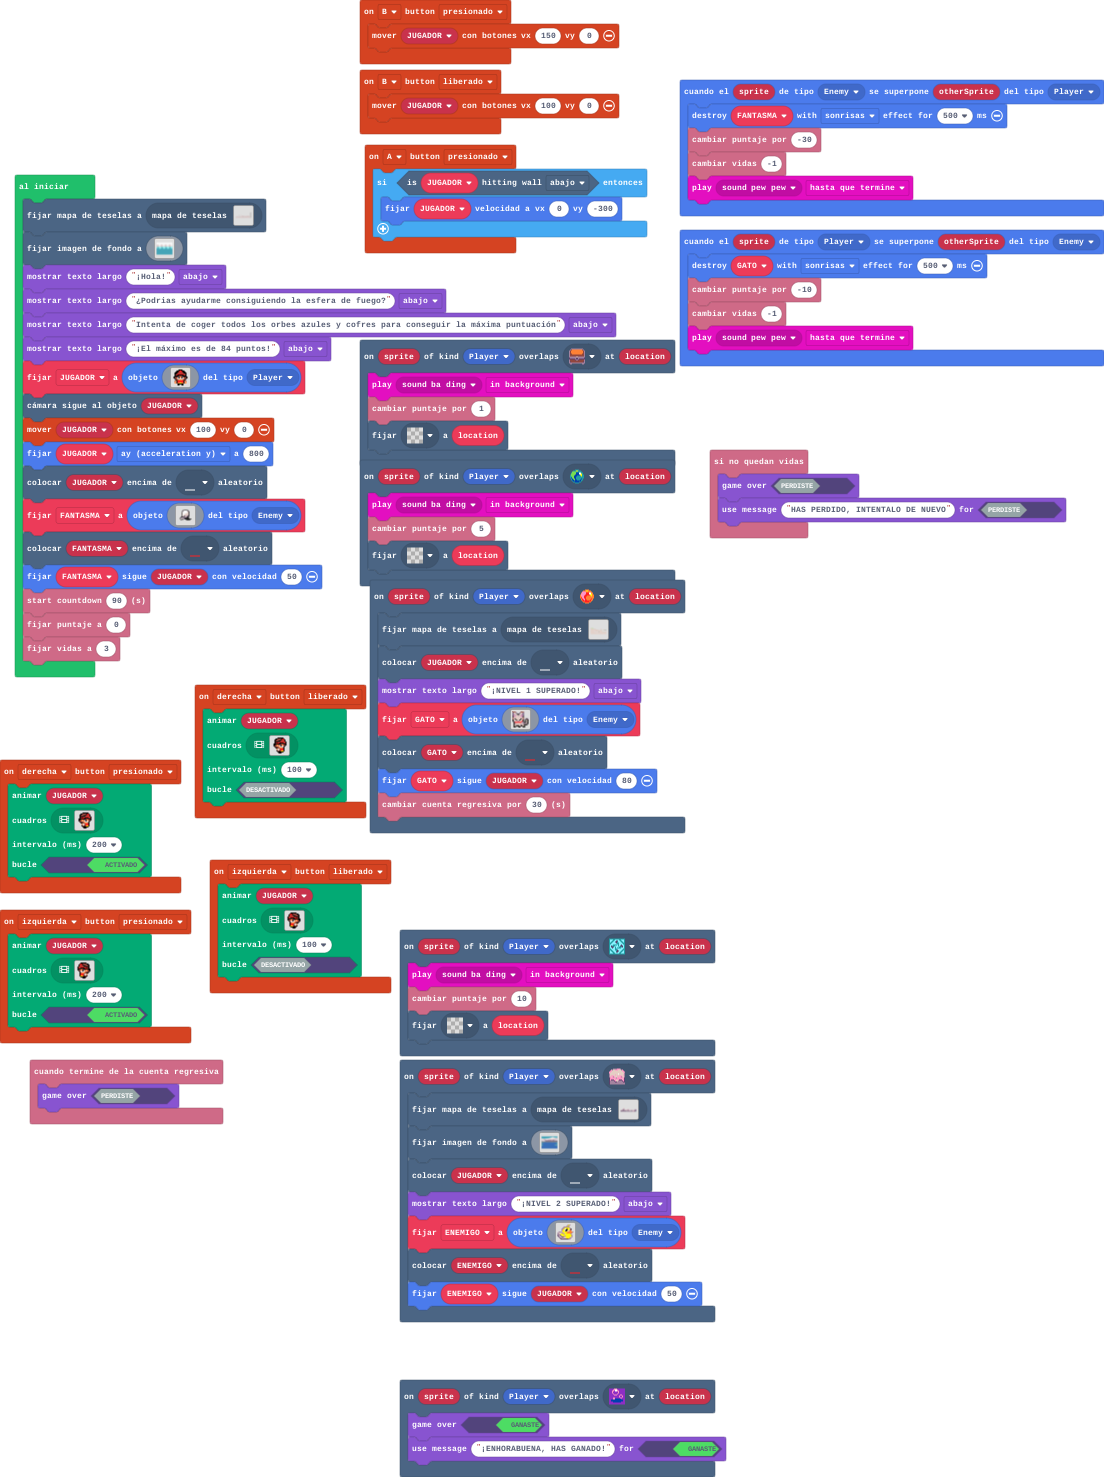
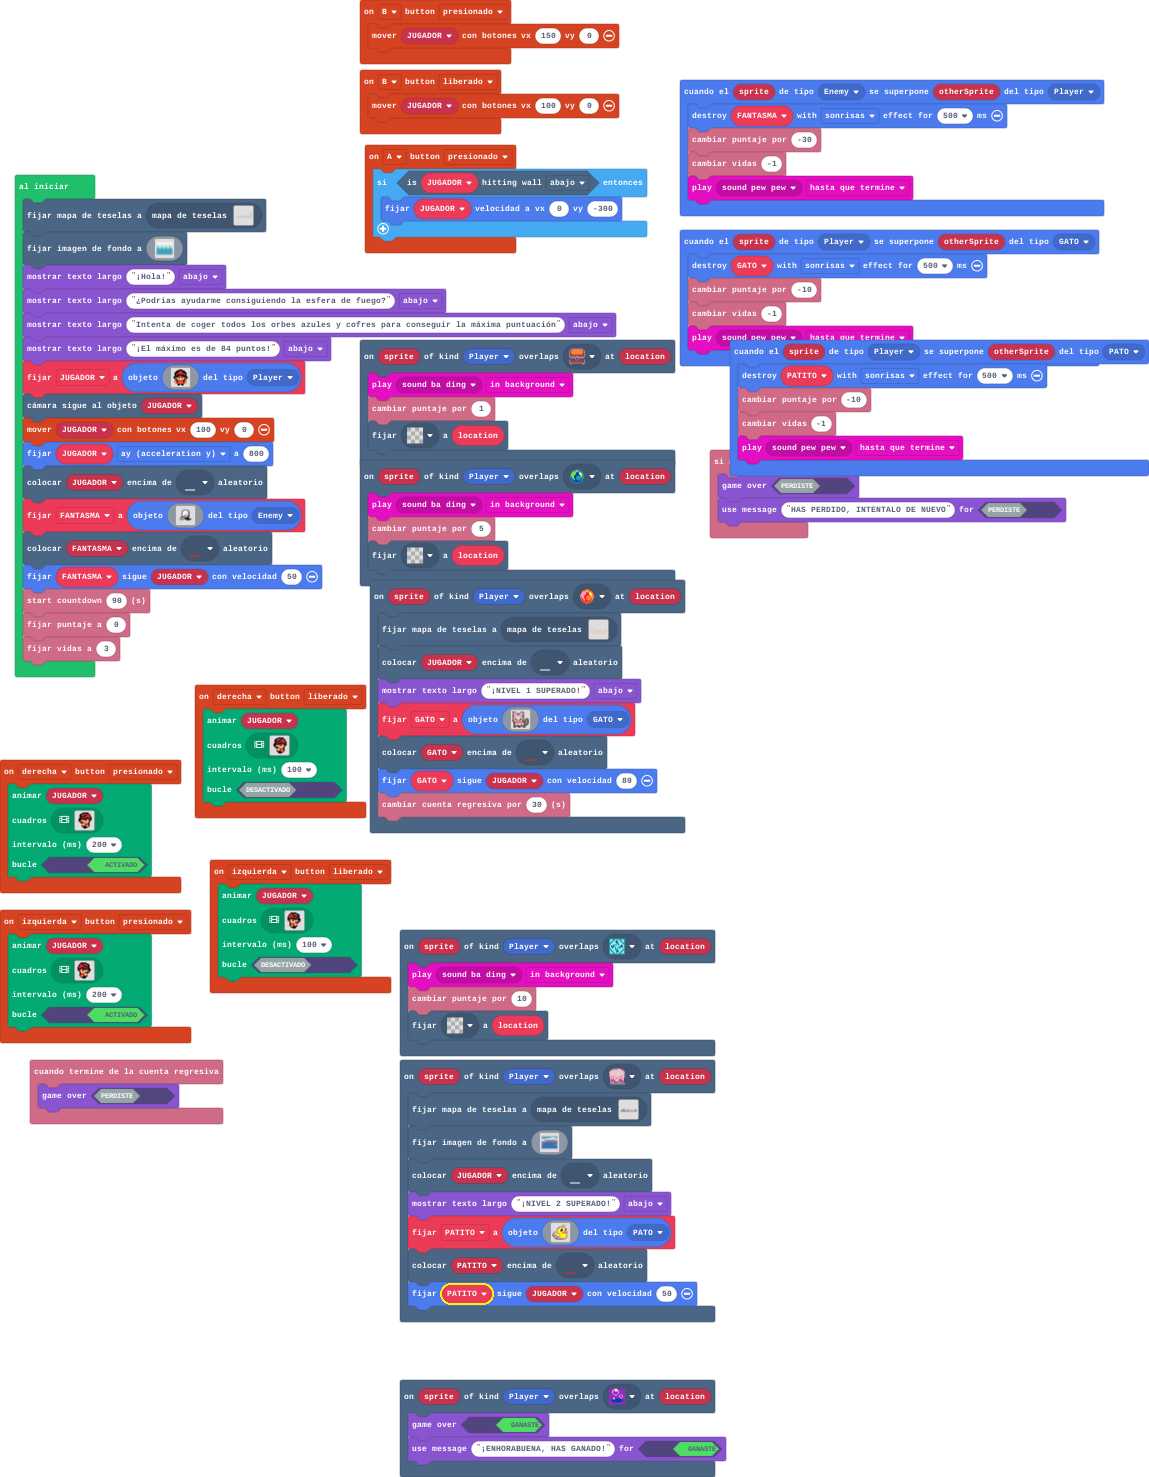
Se arregló el error de que el pato pueda quitarte vidas y puntos ilimitados

diff --git a/main.ts b/main.ts
@@ -1,5 +1,7 @@
 namespace SpriteKind {
     export const BLOQUE = SpriteKind.create()
+    export const GATO = SpriteKind.create()
+    export const PATO = SpriteKind.create()
 }
 controller.right.onEvent(ControllerButtonEvent.Released, function () {
     animation.runImageAnimation(
@@ -50,6 +52,12 @@ controller.left.onEvent(ControllerButtonEvent.Released, function () {
     100,
     false
     )
+})
+sprites.onOverlap(SpriteKind.Player, SpriteKind.PATO, function (sprite, otherSprite) {
+    sprites.destroy(PATITO, effects.smiles, 500)
+    info.changeScoreBy(-10)
+    info.changeLifeBy(-1)
+    music.play(music.melodyPlayable(music.pewPew), music.PlaybackMode.UntilDone)
 })
 controller.right.onEvent(ControllerButtonEvent.Pressed, function () {
     animation.runImageAnimation(
@@ -126,6 +134,12 @@ controller.right.onEvent(ControllerButtonEvent.Pressed, function () {
     200,
     true
     )
+})
+sprites.onOverlap(SpriteKind.Player, SpriteKind.GATO, function (sprite, otherSprite) {
+    sprites.destroy(GATO, effects.smiles, 500)
+    info.changeScoreBy(-10)
+    info.changeLifeBy(-1)
+    music.play(music.melodyPlayable(music.pewPew), music.PlaybackMode.UntilDone)
 })
 controller.left.onEvent(ControllerButtonEvent.Pressed, function () {
     animation.runImageAnimation(
@@ -329,7 +343,7 @@ scene.onOverlapTile(SpriteKind.Player, sprites.builtin.oceanSand4, function (spr
         `)
     tiles.placeOnRandomTile(JUGADOR, assets.tile`myTile`)
     game.showLongText("¡NIVEL 2 SUPERADO!", DialogLayout.Bottom)
-    ENEMIGO = sprites.create(img`
+    PATITO = sprites.create(img`
         . . . . . . . . . . b 5 b . . . 
         . . . . . . . . . b 5 b . . . . 
         . . . . . . b b b b b b . . . . 
@@ -346,9 +360,9 @@ scene.onOverlapTile(SpriteKind.Player, sprites.builtin.oceanSand4, function (spr
         . . c b d d d d d 5 5 5 b b . . 
         . . . c c c c c c c c b b . . . 
         . . . . . . . . . . . . . . . . 
-        `, SpriteKind.Enemy)
-    tiles.placeOnRandomTile(ENEMIGO, assets.tile`myTile0`)
-    ENEMIGO.follow(JUGADOR, 50)
+        `, SpriteKind.PATO)
+    tiles.placeOnRandomTile(PATITO, assets.tile`myTile0`)
+    PATITO.follow(JUGADOR, 50)
 })
 controller.A.onEvent(ControllerButtonEvent.Pressed, function () {
     if (JUGADOR.isHittingTile(CollisionDirection.Bottom)) {
@@ -404,7 +418,7 @@ scene.onOverlapTile(SpriteKind.Player, sprites.dungeon.collectibleRedCrystal, fu
         . f d d d d d b d d f f f . 
         . f d f f f d f f d f . . . 
         . f f . . f f . . f f . . . 
-        `, SpriteKind.Enemy)
+        `, SpriteKind.GATO)
     tiles.placeOnRandomTile(GATO, assets.tile`myTile0`)
     GATO.follow(JUGADOR, 80)
     info.changeCountdownBy(30)
@@ -417,14 +431,8 @@ scene.onOverlapTile(SpriteKind.Player, sprites.dungeon.collectibleInsignia, func
     info.changeScoreBy(10)
     tiles.setTileAt(location, assets.tile`transparency16`)
 })
-sprites.onOverlap(SpriteKind.Player, SpriteKind.Enemy, function (sprite, otherSprite) {
-    sprites.destroy(GATO, effects.smiles, 500)
-    info.changeScoreBy(-10)
-    info.changeLifeBy(-1)
-    music.play(music.melodyPlayable(music.pewPew), music.PlaybackMode.UntilDone)
-})
 let GATO: Sprite = null
-let ENEMIGO: Sprite = null
+let PATITO: Sprite = null
 let FANTASMA: Sprite = null
 let JUGADOR: Sprite = null
 tiles.setCurrentTilemap(tilemap`nivel1`)
